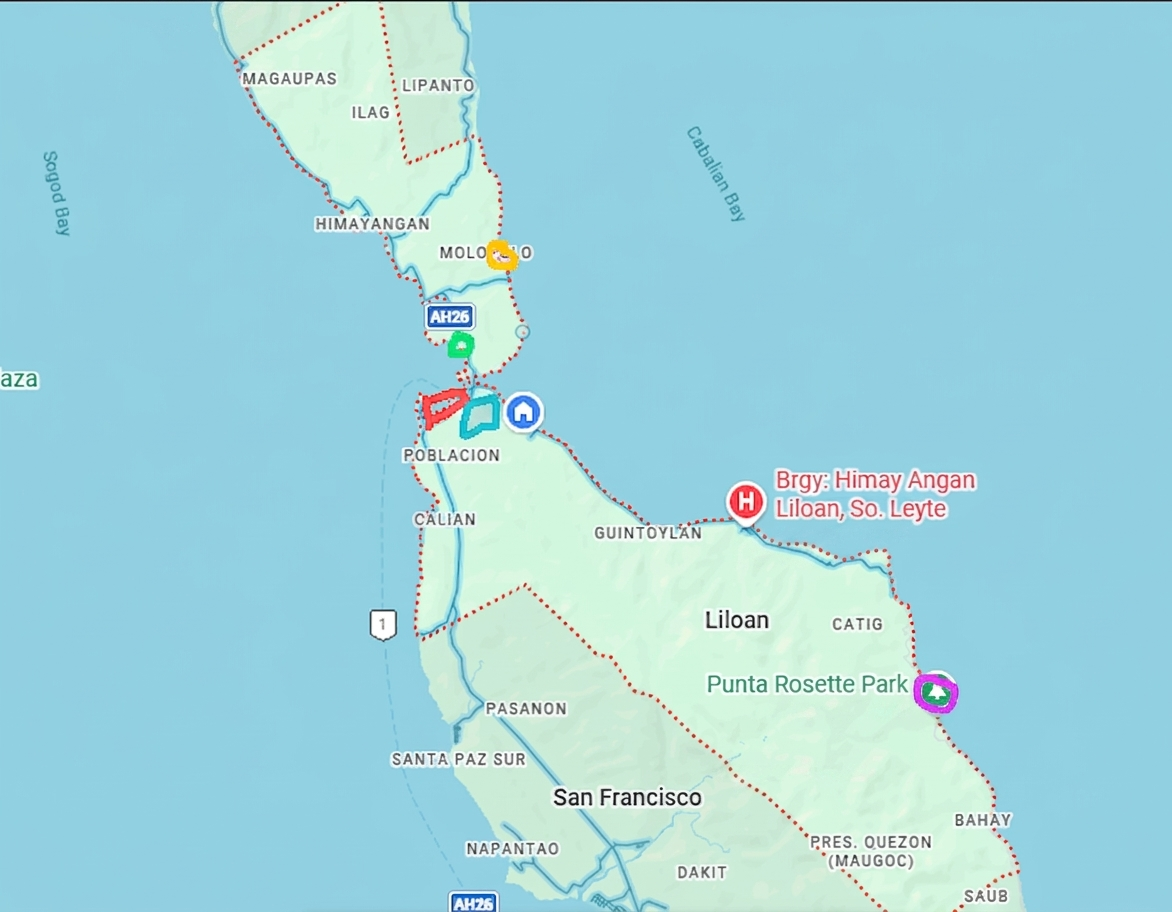
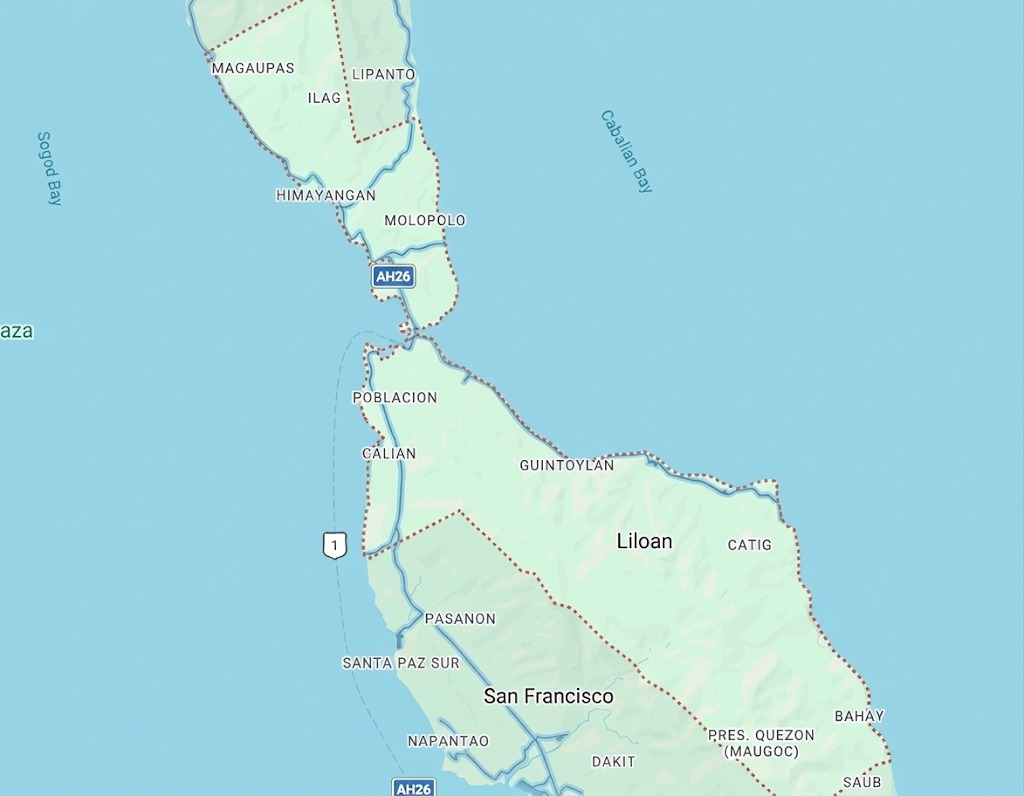
Update homepage

diff --git a/map.html b/map.html
@@ -34,10 +34,10 @@
 
 <!-- ============================= INTERACTIVE HOMETOWN IMAGE MAP ============================= -->
 <!--
-  The base map image below is a placeholder. Once the annotated hometown map is
-  supplied, replace assets/images/map/hometown-map.svg and update the rect / circle /
-  poly coordinates in the <map> element to match the real artwork. Coordinates here
-  are illustrative only.
+  Coordinates below are measured against this image's own native pixel size
+  (assets/images/map/hometown_map.jpg, 1024×796). If this file is ever
+  replaced with a differently-sized image, these coords must be rescaled
+  proportionally — they do not carry over automatically between image sizes.
 -->
 <section id="hometown-map">
   <div class="wrap">
@@ -46,29 +46,47 @@
     </div>
 
     <div class="map-figure">
-      <img src="assets/images/map/hometown-map.svg" usemap="#liloan-map"
+      <img src="assets/images/map/hometown_map.jpg" usemap="#liloan-map"
            alt="Hometown map of Liloan with five marked tourist spots"
-           width="1400" height="1000">
+           width="1024" height="796">
+
+      <!-- Decorative pin markers — purely visual, clicks pass through (pointer-events:none)
+           to the invisible <area> hotspots on the image itself, which do the real work.
+           Percentage positions are resolution-independent, so these did not need to change. -->
+      <span class="map-pin" style="left:37.97%; top:44.79%;" aria-hidden="true"></span>
+      <span class="map-pin" style="left:42.75%; top:28.07%;" aria-hidden="true"></span>
+      <span class="map-pin" style="left:40.92%; top:45.61%;" aria-hidden="true"></span>
+      <span class="map-pin" style="left:39.25%; top:37.83%;" aria-hidden="true"></span>
+      <span class="map-pin" style="left:79.78%; top:75.99%;" aria-hidden="true"></span>
 
       <map name="liloan-map">
-        <!-- rect: two spots -->
-        <area shape="rect" coords="90,700,360,900" href="#spot-baywalk"
-              alt="Liloan Baywalk" title="Liloan Baywalk" data-name="Liloan Baywalk">
-        <area shape="rect" coords="430,760,680,940" href="#spot-molopolo"
-              alt="Molopolo Beach Resort" title="Molopolo Beach Resort" data-name="Molopolo Beach Resort">
+        <!-- rect: Liloan Baywalk -->
+        <area shape="rect" coords="369,339,409,374" href="#spot-baywalk"
+              alt="Liloan Baywalk" title="Liloan Baywalk" data-name="Liloan Baywalk"
+              data-photo="assets/images/map/baywalk.jpg">
 
-        <!-- poly: one spot -->
-        <area shape="poly" coords="880,120,1040,110,1130,250,980,330,830,230" href="#spot-fatima-hills"
-              alt="Fatima Hills" title="Fatima Hills" data-name="Fatima Hills">
+        <!-- circle: Molopolo Beach Resort -->
+        <area shape="circle" coords="438,223,14" href="#spot-molopolo"
+              alt="Molopolo Beach Resort" title="Molopolo Beach Resort" data-name="Molopolo Beach Resort"
+              data-photo="assets/images/map/molopolo.jpg">
 
-        <!-- circle: two spots -->
-        <area shape="circle" coords="1150,620,70" href="#spot-tagbak"
-              alt="Tagbak Marine Park" title="Tagbak Marine Park" data-name="Tagbak Marine Park">
-        <area shape="circle" coords="1300,790,60" href="#spot-punta-rossette"
-              alt="Punta Rossette Park" title="Punta Rossette Park" data-name="Punta Rossette Park">
+        <!-- poly: Fatima Hills -->
+        <area shape="poly" coords="402,381,403,363,406,354,412,347,432,343,436,351,436,371,410,382,405,383" href="#spot-fatima-hills"
+              alt="Fatima Hills" title="Fatima Hills" data-name="Fatima Hills"
+              data-photo="assets/images/map/fatima_hills.jpg">
+
+        <!-- circle: Tagbak Marine Park -->
+        <area shape="circle" coords="402,301,12" href="#spot-tagbak"
+              alt="Tagbak Marine Park" title="Tagbak Marine Park" data-name="Tagbak Marine Park"
+              data-photo="assets/images/map/tagbak_marine_park.jpg">
+
+        <!-- circle: Punta Rossette Park -->
+        <area shape="circle" coords="817,605,19" href="#spot-punta-rossette"
+              alt="Punta Rossette Park" title="Punta Rossette Park" data-name="Punta Rossette Park"
+              data-photo="assets/images/map/punta_rossette_park.jpg">
       </map>
     </div>
-    <p class="map-hint">Markers are placeholders until the real map artwork and coordinates are supplied.</p>
+    <p class="map-hint">Hover a pin to see the spot's name and photo. Click it to jump to the full details below.</p>
   </div>
 </section>
 
@@ -83,7 +101,7 @@
     <div class="spot-row" id="spot-baywalk">
       <div>
         <h3>1. Liloan Baywalk</h3>
-        <p>Body text placeholder — a short description of the baywalk goes here once supplied.</p>
+        <p>Sits right along the Poblacion shoreline, next to the AH26 coastal highway — the natural gathering spot along the water, a short walk from the town center.</p>
         <div class="spot-actions">
           <a class="btn btn-primary btn-sm" href="https://www.google.com/maps/search/?api=1&amp;query=Liloan+Baywalk+Southern+Leyte" target="_blank" title="View on Google Maps (opens a new tab)">View on Google Maps</a>
           <button class="btn btn-secondary btn-sm" data-toggle-more>View Details</button>
@@ -91,17 +109,17 @@
         <p class="more-details" hidden>Additional description placeholder — more photos and details will go here.</p>
       </div>
       <div class="spot-photo">
-        <img src="assets/images/map/spot-baywalk.svg" alt="Liloan Baywalk — placeholder photo" width="1000" height="750">
+        <img src="assets/images/map/baywalk.jpg" alt="Liloan Baywalk" width="1000" height="750">
       </div>
     </div>
 
     <div class="spot-row" id="spot-molopolo">
       <div class="spot-photo">
-        <img src="assets/images/map/spot-molopolo.svg" alt="Molopolo Beach Resort — placeholder photo" width="1000" height="750">
+        <img src="assets/images/map/molopolo.jpg" alt="Molopolo Beach Resort" width="1000" height="750">
       </div>
       <div>
         <h3>2. Molopolo Beach Resort</h3>
-        <p>Body text placeholder — a short description of the resort goes here once supplied.</p>
+        <p>Up the coast near Barangay Molopolo, on the Himayangan boundary — a short drive north along the coastal road from Poblacion.</p>
         <div class="spot-actions">
           <a class="btn btn-primary btn-sm" href="https://www.google.com/maps/search/?api=1&amp;query=Molopolo+Beach+Resort+Southern+Leyte" target="_blank" title="View on Google Maps (opens a new tab)">View on Google Maps</a>
           <button class="btn btn-secondary btn-sm" data-toggle-more>View Details</button>
@@ -113,7 +131,7 @@
     <div class="spot-row" id="spot-fatima-hills">
       <div>
         <h3>3. Fatima Hills</h3>
-        <p>Body text placeholder — a short description of Fatima Hills goes here once supplied.</p>
+        <p>Rises just behind Poblacion, close enough to the town center to reach on foot or a short tricycle ride.</p>
         <div class="spot-actions">
           <a class="btn btn-primary btn-sm" href="https://www.google.com/maps/search/?api=1&amp;query=Fatima+Hills+Liloan+Southern+Leyte" target="_blank" title="View on Google Maps (opens a new tab)">View on Google Maps</a>
           <button class="btn btn-secondary btn-sm" data-toggle-more>View Details</button>
@@ -121,17 +139,17 @@
         <p class="more-details" hidden>Additional description placeholder — more photos and details will go here.</p>
       </div>
       <div class="spot-photo">
-        <img src="assets/images/map/spot-fatima-hills.svg" alt="Fatima Hills — placeholder photo" width="1000" height="750">
+        <img src="assets/images/map/fatima_hills.jpg" alt="Fatima Hills" width="1000" height="750">
       </div>
     </div>
 
     <div class="spot-row" id="spot-tagbak">
       <div class="spot-photo">
-        <img src="assets/images/map/spot-tagbak.svg" alt="Tagbak Marine Park — placeholder photo" width="1000" height="750">
+        <img src="assets/images/map/tagbak_marine_park.jpg" alt="Tagbak Marine Park" width="1000" height="750">
       </div>
       <div>
         <h3>4. Tagbak Marine Park</h3>
-        <p>Body text placeholder — home to seagrass beds that quietly pull CO<sub>2</sub> out of the water, among the details to be filled in once supplied.</p>
+        <p>A protected stretch of water off the Poblacion coastline, between the town center and Molopolo — home to seagrass beds that quietly pull CO<sub>2</sub> out of the water.</p>
         <div class="spot-actions">
           <a class="btn btn-primary btn-sm" href="https://www.google.com/maps/search/?api=1&amp;query=Tagbak+Marine+Park+Southern+Leyte" target="_blank" title="View on Google Maps (opens a new tab)">View on Google Maps</a>
           <button class="btn btn-secondary btn-sm" data-toggle-more>View Details</button>
@@ -143,7 +161,7 @@
     <div class="spot-row" id="spot-punta-rossette">
       <div>
         <h3>5. Punta Rossette Park</h3>
-        <p>Body text placeholder — a short description of Punta Rossette Park goes here once supplied.</p>
+        <p>Tucked into the coastline near Barangay Catig, on the eastern side of town facing Cabalian Bay.</p>
         <div class="spot-actions">
           <a class="btn btn-primary btn-sm" href="https://www.google.com/maps/search/?api=1&amp;query=Punta+Rossette+Park+Southern+Leyte" target="_blank" title="View on Google Maps (opens a new tab)">View on Google Maps</a>
           <button class="btn btn-secondary btn-sm" data-toggle-more>View Details</button>
@@ -151,7 +169,7 @@
         <p class="more-details" hidden>Additional description placeholder — more photos and details will go here.</p>
       </div>
       <div class="spot-photo">
-        <img src="assets/images/map/spot-punta-rossette.svg" alt="Punta Rossette Park — placeholder photo" width="1000" height="750">
+        <img src="assets/images/map/punta_rossette_park.jpg" alt="Punta Rossette Park" width="1000" height="750">
       </div>
     </div>
   </div>
@@ -264,14 +282,17 @@
     });
   });
 
-  // Small hover tooltip so touching a marker shows the spot's name near the cursor.
+  // Hover tooltip: touching a marker floats its name AND a small photo near the cursor.
   var tip = document.createElement('div');
   tip.className = 'map-tip';
   document.body.appendChild(tip);
 
   document.querySelectorAll('#liloan-map area').forEach(function (area) {
     area.addEventListener('mouseenter', function () {
-      tip.textContent = area.getAttribute('data-name');
+      var name = area.getAttribute('data-name');
+      var photo = area.getAttribute('data-photo');
+      tip.innerHTML = '<img src="' + photo + '" alt="" width="40" height="30">' +
+                       '<span>' + name + '</span>';
       tip.classList.add('is-visible');
     });
     area.addEventListener('mousemove', function (e) {

diff --git a/index.html b/index.html
@@ -30,12 +30,12 @@
 </header>
 
 <!-- ============================= HERO ============================= -->
-<!-- Hero photo is a placeholder. Replace assets/images/hero/hero-municipal-hall.svg
+<!-- Hero photo is a placeholder. Replace assets/images/hero/hero_liloan_view.jpg
      with the real photograph; keep the same filename or update the src below. -->
 <section class="hero" style="padding:0;">
   <picture>
-    <source media="(max-width: 680px)" srcset="assets/images/hero/hero-municipal-hall.svg">
-    <img src="assets/images/hero/hero-municipal-hall.svg"
+    <source media="(max-width: 680px)" srcset="assets/images/hero/hero_liloan_view.jpg">
+    <img src="assets/images/hero/hero_liloan_view.jpg"
          alt="Placeholder hero photograph — to be replaced with a view of Liloan featuring the Municipal Hall"
          width="1600" height="1000">
   </picture>
@@ -58,11 +58,11 @@
       <!-- Beaches gallery -->
       <div class="gallery" data-gallery data-autoplay="4200">
         <div class="gallery-frame">
-          <img src="assets/images/discover/beaches/beach-1.svg" alt="Beaches in Liloan — photo 1" width="1200" height="1500" class="is-active">
-          <img src="assets/images/discover/beaches/beach-2.svg" alt="Beaches in Liloan — photo 2" width="1200" height="1500">
-          <img src="assets/images/discover/beaches/beach-3.svg" alt="Beaches in Liloan — photo 3" width="1200" height="1500">
-          <img src="assets/images/discover/beaches/beach-4.svg" alt="Beaches in Liloan — photo 4" width="1200" height="1500">
-          <img src="assets/images/discover/beaches/beach-5.svg" alt="Beaches in Liloan — photo 5" width="1200" height="1500">
+          <img src="assets/images/discover/beaches/Beach_1.jpg" alt="Beaches in Liloan — photo 1" width="1200" height="1500" class="is-active">
+          <img src="assets/images/discover/beaches/Beach_2.jpg" alt="Beaches in Liloan — photo 2" width="1200" height="1500">
+          <img src="assets/images/discover/beaches/Beach_3.jpg" alt="Beaches in Liloan — photo 3" width="1200" height="1500">
+          <img src="assets/images/discover/beaches/Beach_4.jpg" alt="Beaches in Liloan — photo 4" width="1200" height="1500">
+          <img src="assets/images/discover/beaches/Beach_5.jpg" alt="Beaches in Liloan — photo 5" width="1200" height="1500">
         </div>
         <div class="gallery-dots" data-dots></div>
         <h3>Beaches</h3>
@@ -72,11 +72,11 @@
       <!-- Landscapes gallery -->
       <div class="gallery" data-gallery data-autoplay="4800">
         <div class="gallery-frame">
-          <img src="assets/images/discover/landscapes/landscape-1.svg" alt="Landscapes in Liloan — photo 1" width="1200" height="1500" class="is-active">
-          <img src="assets/images/discover/landscapes/landscape-2.svg" alt="Landscapes in Liloan — photo 2" width="1200" height="1500">
-          <img src="assets/images/discover/landscapes/landscape-3.svg" alt="Landscapes in Liloan — photo 3" width="1200" height="1500">
-          <img src="assets/images/discover/landscapes/landscape-4.svg" alt="Landscapes in Liloan — photo 4" width="1200" height="1500">
-          <img src="assets/images/discover/landscapes/landscape-5.svg" alt="Landscapes in Liloan — photo 5" width="1200" height="1500">
+          <img src="assets/images/discover/landscapes/Landscape_1.jpg" alt="Landscapes in Liloan — photo 1" width="1200" height="1500" class="is-active">
+          <img src="assets/images/discover/landscapes/Landscape_2.jpg" alt="Landscapes in Liloan — photo 2" width="1200" height="1500">
+          <img src="assets/images/discover/landscapes/Landscape_3.jpg" alt="Landscapes in Liloan — photo 3" width="1200" height="1500">
+          <img src="assets/images/discover/landscapes/Landscape_4.jpg" alt="Landscapes in Liloan — photo 4" width="1200" height="1500">
+          <img src="assets/images/discover/landscapes/Landscape_5.jpg" alt="Landscapes in Liloan — photo 5" width="1200" height="1500">
         </div>
         <div class="gallery-dots" data-dots></div>
         <h3>Landscapes</h3>
@@ -86,11 +86,11 @@
       <!-- Local Places gallery -->
       <div class="gallery" data-gallery data-autoplay="5300">
         <div class="gallery-frame">
-          <img src="assets/images/discover/local/local-1.svg" alt="Local places in Liloan — photo 1" width="1200" height="1500" class="is-active">
-          <img src="assets/images/discover/local/local-2.svg" alt="Local places in Liloan — photo 2" width="1200" height="1500">
-          <img src="assets/images/discover/local/local-3.svg" alt="Local places in Liloan — photo 3" width="1200" height="1500">
-          <img src="assets/images/discover/local/local-4.svg" alt="Local places in Liloan — photo 4" width="1200" height="1500">
-          <img src="assets/images/discover/local/local-5.svg" alt="Local places in Liloan — photo 5" width="1200" height="1500">
+          <img src="assets/images/discover/local/Local_Places_1.jpg" alt="Local places in Liloan — photo 1" width="1200" height="1500" class="is-active">
+          <img src="assets/images/discover/local/Local_Places_2.jpg" alt="Local places in Liloan — photo 2" width="1200" height="1500">
+          <img src="assets/images/discover/local/Local_Places_3.jpg" alt="Local places in Liloan — photo 3" width="1200" height="1500">
+          <img src="assets/images/discover/local/Local_Places_4.jpg" alt="Local places in Liloan — photo 4" width="1200" height="1500">
+          <img src="assets/images/discover/local/Local_Places_5.jpg" alt="Local places in Liloan — photo 5" width="1200" height="1500">
         </div>
         <div class="gallery-dots" data-dots></div>
         <h3>Local Places</h3>
@@ -110,7 +110,7 @@
       <p>Locally, residents still refer to the town by an older <i>pet name</i> in everyday conversation — <q>the version everyone actually uses</q> — a detail that will be filled in with the correct term later.</p>
     </div>
     <div class="story-photo">
-      <img src="assets/images/story/story-photo.svg" alt="Placeholder photograph to accompany the history of Liloan" width="900" height="1100">
+      <img src="assets/images/story/story_photo.jpg" alt="Placeholder photograph to accompany the history of Liloan" width="900" height="1100">
     </div>
   </div>
 </section>
@@ -126,8 +126,9 @@
 
       <div class="experience-card">
         <div class="experience-frame" data-gallery data-autoplay="3600">
-          <img src="assets/images/experience/lilowawa-1.svg" alt="Lilowawa experience — photo 1" width="1000" height="750" class="is-active">
-          <img src="assets/images/experience/lilowawa-2.svg" alt="Lilowawa experience — photo 2" width="1000" height="750">
+          <img src="assets/images/experience/lilowawa_1.jpg" alt="Lilowawa experience — photo 1" width="1000" height="750" class="is-active">
+          <img src="assets/images/experience/lilowawa_2.jpg" alt="Lilowawa experience — photo 2" width="1000" height="750">
+          <img src="assets/images/experience/lilowawa_3.jpg" alt="Lilowawa experience — photo 3" width="1000" height="750">
           <!-- Animated GIF placeholder, required by the assignment -->
           <img src="assets/images/experience/wave-loop-placeholder.gif" alt="Animated placeholder — replace with a real motion clip or GIF of Lilowawa" width="600" height="400">
         </div>
@@ -137,8 +138,8 @@
 
       <div class="experience-card">
         <div class="experience-frame" data-gallery data-autoplay="4100">
-          <img src="assets/images/experience/livelihood-1.svg" alt="Livelihood in Liloan — photo 1" width="1000" height="750" class="is-active">
-          <img src="assets/images/experience/livelihood-2.svg" alt="Livelihood in Liloan — photo 2" width="1000" height="750">
+          <img src="assets/images/experience/livelihood_1.jpg" alt="Livelihood in Liloan — photo 1" width="1000" height="750" class="is-active">
+          <img src="assets/images/experience/livelihood_2.jpg" alt="Livelihood in Liloan — photo 2" width="1000" height="750">
         </div>
         <h3>Livelihood</h3>
         <p>Body text placeholder — fishing, farming, and trade that shape daily life here.</p>

diff --git a/about.html b/about.html
@@ -57,7 +57,7 @@
 
     <!-- Municipal logo/photo placeholder — do not treat as final artwork -->
     <div class="about-photo">
-      <img src="assets/images/about/municipal-logo.svg" alt="Placeholder for the official municipal logo or a photograph of the Municipal Hall" width="400" height="400">
+      <img src="assets/images/about/Municipal_logo.jpg" alt="Municipal logo of Liloan, Southern Leyte" width="400" height="400">
     </div>
   </div>
 
